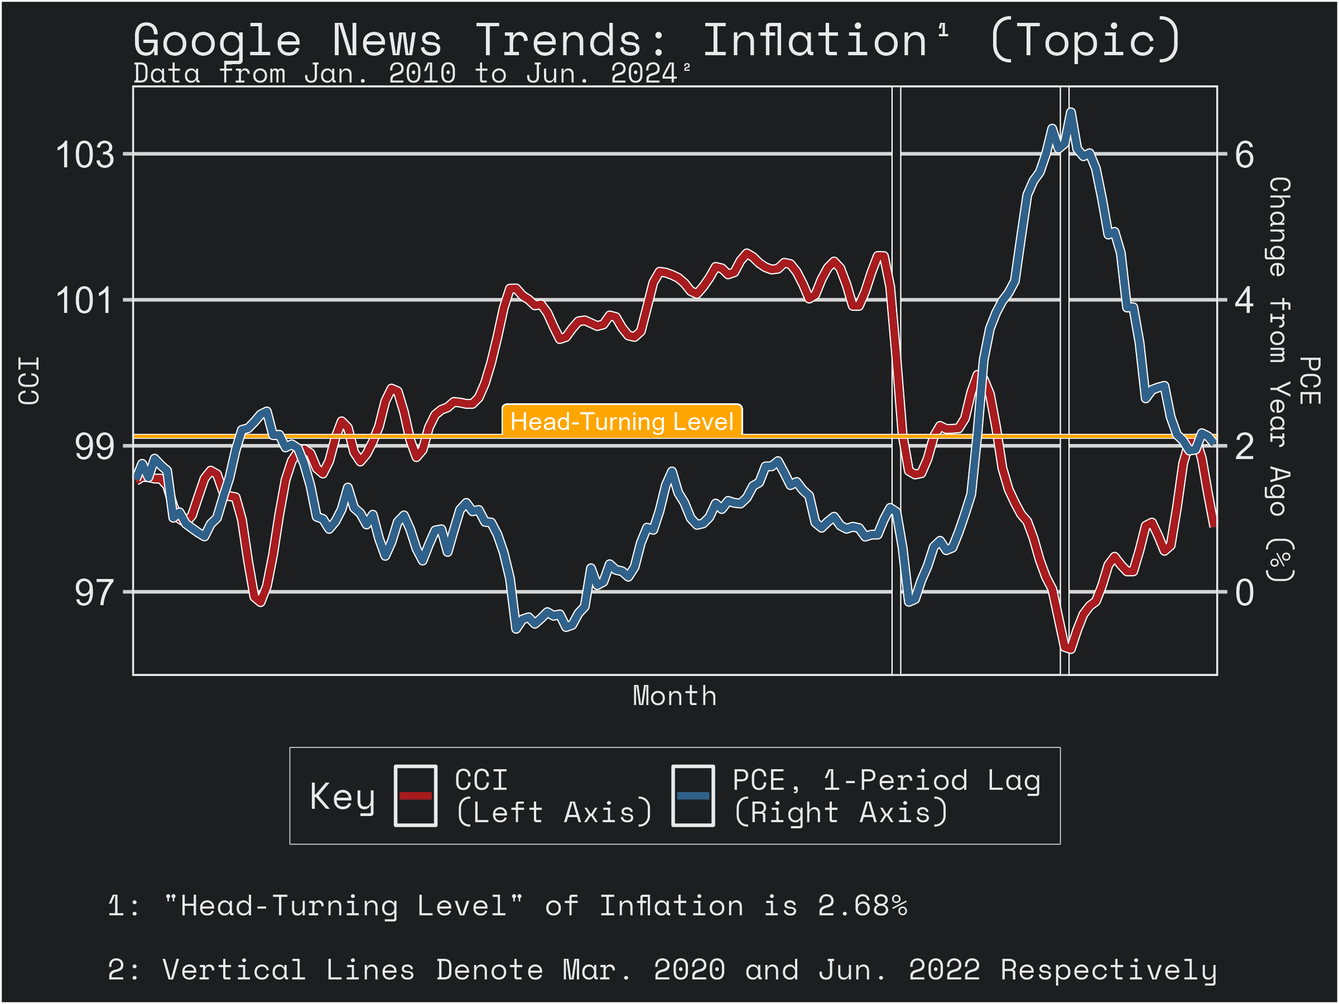
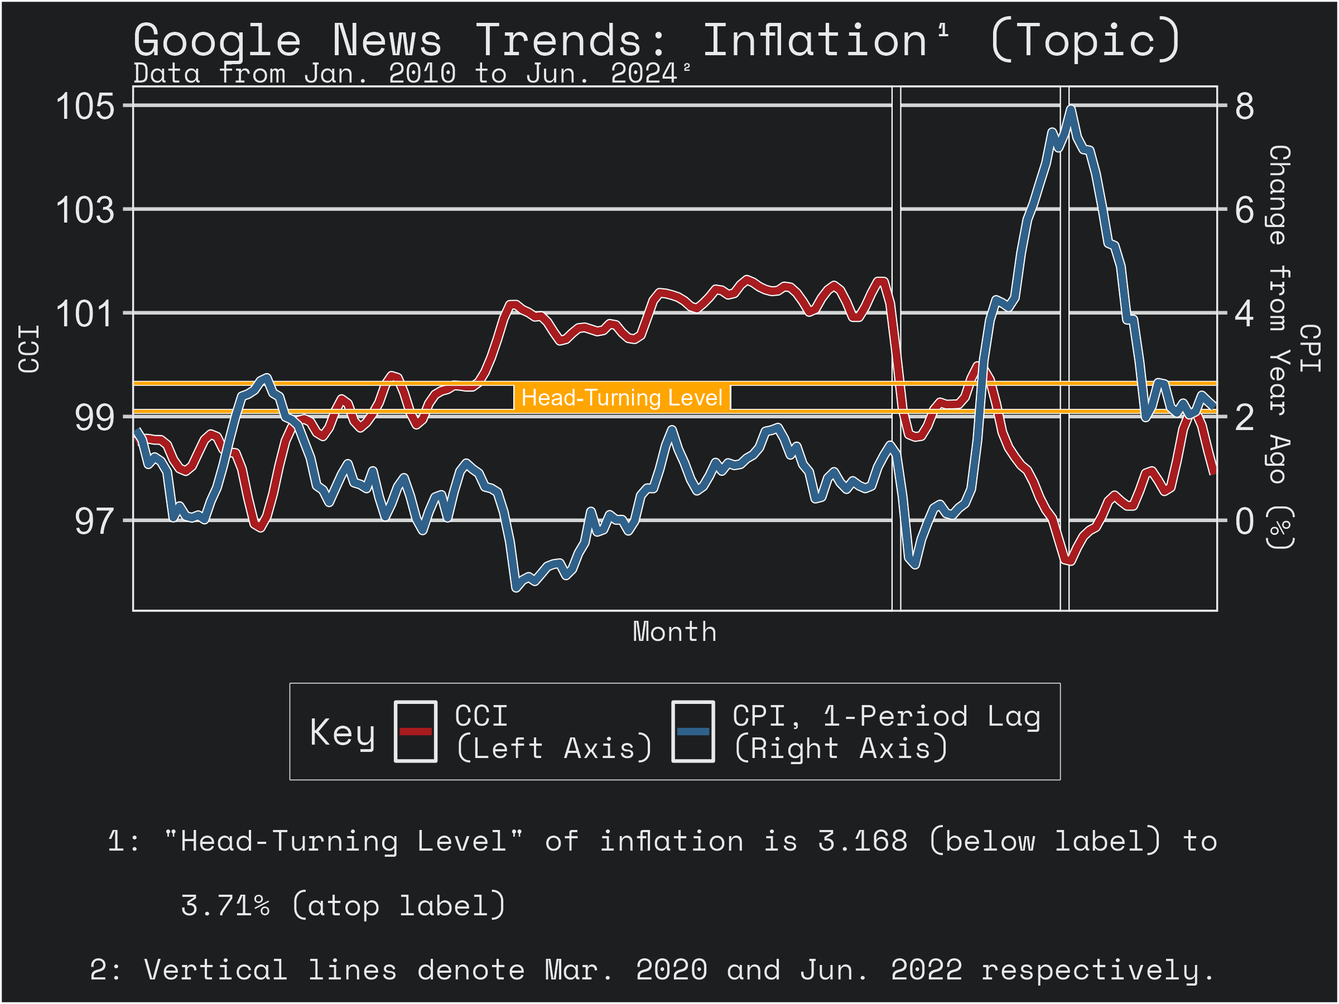
inflation measure
change pce to cpi

diff --git a/stuff/posts/TheVibes2022.html b/stuff/posts/TheVibes2022.html
@@ -91,35 +91,6 @@ div.csl-indent {
   }
 }</script>
 
-  <script src="https://polyfill.io/v3/polyfill.min.js?features=es6"></script>
-  <script src="https://cdn.jsdelivr.net/npm/mathjax@3/es5/tex-chtml-full.js" type="text/javascript"></script>
-
-<script type="text/javascript">
-const typesetMath = (el) => {
-  if (window.MathJax) {
-    // MathJax Typeset
-    window.MathJax.typeset([el]);
-  } else if (window.katex) {
-    // KaTeX Render
-    var mathElements = el.getElementsByClassName("math");
-    var macros = [];
-    for (var i = 0; i < mathElements.length; i++) {
-      var texText = mathElements[i].firstChild;
-      if (mathElements[i].tagName == "SPAN") {
-        window.katex.render(texText.data, mathElements[i], {
-          displayMode: mathElements[i].classList.contains('display'),
-          throwOnError: false,
-          macros: macros,
-          fleqn: false
-        });
-      }
-    }
-  }
-}
-window.Quarto = {
-  typesetMath
-};
-</script>
 
 <link rel="stylesheet" href="../../fonts.css">
 </head>
@@ -267,7 +238,7 @@ window.Quarto = {
 <div id="fig-dipzone" class="quarto-figure quarto-figure-center quarto-float anchored">
 <figure class="quarto-float quarto-float-fig figure">
 <div aria-describedby="fig-dipzone-caption-0ceaefa1-69ba-4598-a22c-09a6ac19f8ca">
-<a href="https://iop.harvard.edu/youth-poll/46th-edition-fall-2023"><span class="lightbox" data-gallery="quarto-lightbox-gallery-1" data-glightbox="description: .lightbox-desc-1"><img src="TheVibes2022/survey.png" class="img-fluid figure-img"></span></a>
+<a href="https://iop.harvard.edu/youth-poll/46th-edition-fall-2023"><span class="lightbox" data-glightbox="description: .lightbox-desc-1" data-gallery="quarto-lightbox-gallery-1"><img src="TheVibes2022/survey.png" class="img-fluid figure-img"></span></a>
 </div>
 <figcaption class="quarto-float-caption-bottom quarto-float-caption quarto-float-fig" id="fig-dipzone-caption-0ceaefa1-69ba-4598-a22c-09a6ac19f8ca">
 Figure&nbsp;1: Harvard IOP Youth Poll; Fall 2023
@@ -281,9 +252,9 @@ Figure&nbsp;1: Harvard IOP Youth Poll; Fall 2023
 </section>
 <section id="measuring-sentiments" class="level1" data-number="2">
 <h1 data-number="2"><span class="header-section-number">2</span> Measuring Sentiments</h1>
-<p>To see how sentiment has changed compared to economic conditions, we need a measure of sentiment and a common economic indicator to compare. To keep things simple, I use personal consumption expenditure <span class="citation" data-cites="PCE">(<a href="#ref-PCE" role="doc-biblioref"><span>“Personal Consumption Expenditures: Chain-Type Price Index (PCEPI)”</span> 2024</a>)</span> inflation as the indicator of reference and the consumer confidence index <span class="citation" data-cites="CCI">(<a href="#ref-CCI" role="doc-biblioref"><strong>CCI?</strong></a>)</span> to measure sentiment. I chose inflation because it is a metric that makes headlines, and which has some correlation with the sentiment metric when plotted. Don’t worry about stationarity econometricians, this is not about the number of inflation, it’s about the number of it that turns heads. I’ve elected to employ a one-month lag of inflation in comparing it to consumer sentiment since it would be the preceding month’s inflation that is known in the month of each consumer confidence survey. The time period of both datasets is January 2010 to June 2024<a href="#fn2" class="footnote-ref" id="fnref2" role="doc-noteref"><sup>2</sup></a>. Before proceeding, only one more thing is necessary.<br>
+<p>To see how sentiment has changed compared to economic conditions, we need a measure of sentiment and a common economic indicator to compare. To keep things simple, I use consumer price index <span class="citation" data-cites="CPI">(<a href="#ref-CPI" role="doc-biblioref"><strong>CPI?</strong></a>)</span> inflation as the indicator of reference (PCE is better but CPI is what most mass media uses) and the consumer confidence index <span class="citation" data-cites="CCI">(<a href="#ref-CCI" role="doc-biblioref"><strong>CCI?</strong></a>)</span> to measure sentiment. I chose inflation because it is a metric that makes headlines, and which has some correlation with the sentiment metric when plotted. Don’t worry about stationarity econometricians, this is not about the number of inflation, it’s about the number of it that turns heads. I’ve elected to employ a one-month lag of inflation in comparing it to consumer sentiment since it would be the preceding month’s inflation that is known in the month of each consumer confidence survey. The time period of both datasets is January 2010 to June 2024<a href="#fn2" class="footnote-ref" id="fnref2" role="doc-noteref"><sup>2</sup></a>. Before proceeding, only one more thing is necessary.<br>
 <br>
-Although we are using PCE inflation data in this comparison, as mentioned in the above paragraph, we are looking for what makes headlines. This is to say that when inflation is on target, it is unlikely that it is a considerable factor in terms of consumer sentiment. Who was talking about inflation in December of the year 2020? In addition to simply grabbing inflation data, it is necessary to create a benchmark for the <em>kind of inflation</em> that makes headlines. To do this without going through the pain of actually aggregating news articles manually, I use Google Trends with the query “Inflation (Topic)” specifically concerning Google News searches <span class="citation" data-cites="google">(<a href="#ref-google" role="doc-biblioref"><span>“Inflation (Topic)”</span> 2024</a>)</span> over the same time frame as the CCI and PCE data. The results below illustrate Google News search interest in inflation over time:</p>
+Although we are using CPI inflation data in this comparison, as mentioned in the above paragraph, we are looking for what makes headlines. This is to say that when inflation is on target, it is unlikely that it is a considerable factor in terms of consumer sentiment. Who was talking about inflation in December of the year 2020? In addition to simply grabbing inflation data, it is necessary to create a benchmark for the <em>kind of inflation</em> that makes headlines. To do this without going through the pain of actually aggregating news articles manually, I use Google Trends with the query “Inflation (Topic)” specifically concerning Google News searches <span class="citation" data-cites="google">(<a href="#ref-google" role="doc-biblioref"><span>“Inflation (Topic)”</span> 2024</a>)</span> over the same time frame as the CCI and CPI data. The results below illustrate Google News search interest in inflation over time:</p>
 <div class="callout callout-style-simple callout-note no-icon" style="border-width: 5px;">
 <div class="callout-body d-flex">
 <div class="callout-icon-container">
@@ -299,7 +270,7 @@ Although we are using PCE inflation data in this comparison, as mentioned in the
 <div id="fig-trends" class="quarto-figure quarto-figure-center quarto-float anchored">
 <figure class="quarto-float quarto-float-fig figure">
 <div aria-describedby="fig-trends-caption-0ceaefa1-69ba-4598-a22c-09a6ac19f8ca">
-<a href="TheVibes2022/figures/trends_plot.png" class="lightbox" data-gallery="quarto-lightbox-gallery-2" data-glightbox="description: .lightbox-desc-2"><img src="TheVibes2022/figures/trends_plot.png" class="img-fluid figure-img"></a>
+<a href="TheVibes2022/figures/trends_plot.png" class="lightbox" data-glightbox="description: .lightbox-desc-2" data-gallery="quarto-lightbox-gallery-2"><img src="TheVibes2022/figures/trends_plot.png" class="img-fluid figure-img"></a>
 </div>
 <figcaption class="quarto-float-caption-bottom quarto-float-caption quarto-float-fig" id="fig-trends-caption-0ceaefa1-69ba-4598-a22c-09a6ac19f8ca">
 Figure&nbsp;2: Google News Trends: Inflation (Topic),<br>
@@ -334,7 +305,7 @@ Data from Jan.&nbsp;2010 to Jun.&nbsp;2024, Vertical Lines Denote Mar.&nbsp;2020
 <div id="fig-trends2020" class="quarto-figure quarto-figure-center quarto-float anchored">
 <figure class="quarto-float quarto-float-fig figure">
 <div aria-describedby="fig-trends2020-caption-0ceaefa1-69ba-4598-a22c-09a6ac19f8ca">
-<a href="TheVibes2022/figures/trends_plot_2020.png" class="lightbox" data-gallery="quarto-lightbox-gallery-3" data-glightbox="description: .lightbox-desc-3"><img src="TheVibes2022/figures/trends_plot_2020.png" class="img-fluid figure-img"></a>
+<a href="TheVibes2022/figures/trends_plot_2020.png" class="lightbox" data-glightbox="description: .lightbox-desc-3" data-gallery="quarto-lightbox-gallery-3"><img src="TheVibes2022/figures/trends_plot_2020.png" class="img-fluid figure-img"></a>
 </div>
 <figcaption class="quarto-float-caption-bottom quarto-float-caption quarto-float-fig" id="fig-trends2020-caption-0ceaefa1-69ba-4598-a22c-09a6ac19f8ca">
 Figure&nbsp;3: Google News Trends: Inflation (Topic),<br>
@@ -353,7 +324,7 @@ Data from Jan.&nbsp;2010 to Jan.&nbsp;2020
 </div>
 </div>
 </div>
-<p>What we want is to find a baseline level of inflation that correlates to “disinterest” during the period of stability. In other words, we want to find a general level for the interest trend in inflation as a topic, and see whereabouts inflation tends to be at that level. This level is not entirely representative of what constitutes inflation that makes headlines (for example, periods of particularly low inflation may do the same), but it makes it easier to make an interpretable graph so bear with me. As seen in the collapsed block below, the mean and median levels of interest across the period of interest are <span class="math inline">\(13.55\)</span> and <span class="math inline">\(6\)</span> respectively.</p>
+<p>What we want is to find a baseline level of inflation that correlates to “disinterest” during the period of stability. In other words, we want to find a general level for the interest trend in inflation as a topic, and see whereabouts inflation tends to be at that level. This level is not entirely representative of what constitutes inflation that makes headlines (for example, periods of particularly low inflation may do the same), but it makes it easier to make an interpretable graph so bear with me. As seen in the collapsed block below, the mean and median levels of interest across the period of interest are 13.55 and 6 respectively.</p>
 <div class="callout callout-style-default callout-note no-icon callout-titled">
 <div class="callout-header d-flex align-content-center" data-bs-toggle="collapse" data-bs-target=".callout-1-contents" aria-controls="callout-1" aria-expanded="false" aria-label="Toggle callout">
 <div class="callout-icon-container">
@@ -390,18 +361,18 @@ Google Trends Averages: Inflation
 <div class="callout-body-container callout-body">
 <div class="cell">
 <div class="cell-output cell-output-stdout">
-<pre><code>   Min. 1st Qu.  Median    Mean 3rd Qu.    Max. 
- 0.1993  1.8651  2.6774  3.1673  4.4443  7.1169 </code></pre>
+<pre><code>    Min.  1st Qu.   Median     Mean  3rd Qu.     Max. 
+-0.02203  2.13811  3.16574  3.70907  5.05818  8.98974 </code></pre>
 </div>
 <div class="cell-output cell-output-stdout">
 <pre><code>   Min. 1st Qu.  Median    Mean 3rd Qu.    Max. 
-  96.65   98.32   99.13   99.62  100.90  103.57 </code></pre>
+  95.91   98.07   99.10   99.64  100.99  104.92 </code></pre>
 </div>
 </div>
 </div>
 </div>
 </div>
-<p>Inflation generally starts to turn heads when it hits about 2.68 to 3.17%. That sounds reasonable to my hind brain so we will continue, and I elect to continue with the median (the former value) again just to be safe given how varied these inflation figures can get.</p>
+<p>Inflation generally starts to turn heads when it hits about 3.168 to 3.71%. That sounds reasonable to my hind brain so we will continue. I elect to include both possible limits for the visual in the next section.</p>
 </section>
 <section id="inflation-and-consumer-confidence" class="level1" data-number="3">
 <h1 data-number="3"><span class="header-section-number">3</span> Inflation and Consumer Confidence</h1>
@@ -421,7 +392,7 @@ Google Trends Averages: Inflation
 <div id="fig-cci-all" class="quarto-figure quarto-figure-center quarto-float anchored">
 <figure class="quarto-float quarto-float-fig figure">
 <div aria-describedby="fig-cci-all-caption-0ceaefa1-69ba-4598-a22c-09a6ac19f8ca">
-<a href="TheVibes2022/figures/cc_plain_all.png" class="lightbox" data-gallery="quarto-lightbox-gallery-4" data-glightbox="description: .lightbox-desc-4"><img src="TheVibes2022/figures/cc_plain_all.png" class="img-fluid figure-img"></a>
+<a href="TheVibes2022/figures/cc_plain_all.png" class="lightbox" data-glightbox="description: .lightbox-desc-4" data-gallery="quarto-lightbox-gallery-4"><img src="TheVibes2022/figures/cc_plain_all.png" class="img-fluid figure-img"></a>
 </div>
 <figcaption class="quarto-float-caption-bottom quarto-float-caption quarto-float-fig" id="fig-cci-all-caption-0ceaefa1-69ba-4598-a22c-09a6ac19f8ca">
 Figure&nbsp;4: Inflation v. Consumer Confidence Index,<br>
@@ -440,14 +411,14 @@ Data from Jan.&nbsp;2010 to Jun.&nbsp;2024, Vertical Lines Denote Mar.&nbsp;2020
 </div>
 </div>
 </div>
-<p>As seen above in <a href="#fig-cci-all" class="quarto-xref">Figure&nbsp;4</a>, it is generally true that higher inflation in one month is reflected by a lower CCI in the next<a href="#fn4" class="footnote-ref" id="fnref4" role="doc-noteref"><sup>4</sup></a>, particularly during periods that exceeds the head-turning level. Running a simple test for correlation (in the collapsed block below) we get coefficients of about -0.665 or -0.703 that are statistically significant when including all PCE values or only those where the level of interest in inflation was above the median of 6 (the head-turning level roughly associated with an inflation rate of about 2.68%) respectively. In the years since 2010, we see that low inflation generally resulted in higher consumer confidence and vice versa, and we additionally see that when controlling to focus on inflation during periods where interest of it is higher (which is associated with the “head-turning number” at the higher end of inflation), that relationship is more pronounced.</p>
+<p>As seen above in <a href="#fig-cci-all" class="quarto-xref">Figure&nbsp;4</a>, it is generally true that higher inflation in one month is reflected by a lower CCI in the next<a href="#fn4" class="footnote-ref" id="fnref4" role="doc-noteref"><sup>4</sup></a>, particularly during periods that exceeds the head-turning level. Running a simple test for correlation (in the collapsed block below) we get coefficients of about -0.630 or -0.699 that are statistically significant when including all CPI values or only those where the level of interest in inflation was above the median of 6 (the head-turning level roughly associated with an inflation rate of about 2.68%) respectively. In the years since 2010, we see that low inflation generally resulted in higher consumer confidence and vice versa, and we additionally see that when controlling to focus on inflation during periods where interest of it is higher (which is associated with the “head-turning number” at the higher end of inflation), that relationship is more pronounced.</p>
 <div class="callout callout-style-default callout-note no-icon callout-titled">
 <div class="callout-header d-flex align-content-center" data-bs-toggle="collapse" data-bs-target=".callout-3-contents" aria-controls="callout-3" aria-expanded="false" aria-label="Toggle callout">
 <div class="callout-icon-container">
 <i class="callout-icon no-icon"></i>
 </div>
 <div class="callout-title-container flex-fill">
-Correlation Test: PCE v. CCI
+Correlation Test: CPI v. CCI
 </div>
 <div class="callout-btn-toggle d-inline-block border-0 py-1 ps-1 pe-0 float-end"><i class="callout-toggle"></i></div>
 </div>
@@ -458,27 +429,27 @@ Correlation Test: PCE v. CCI
 <pre><code>
     Pearson's product-moment correlation
 
-data:  consumer_confidence$PCE_lag and consumer_confidence$CCI
-t = -11.679, df = 172, p-value &lt; 2.2e-16
+data:  consumer_confidence$CPI_lag and consumer_confidence$CCI
+t = -10.649, df = 172, p-value &lt; 2.2e-16
 alternative hypothesis: true correlation is not equal to 0
 95 percent confidence interval:
- -0.7405351 -0.5729469
+ -0.7123095 -0.5313987
 sample estimates:
        cor 
--0.6650313 </code></pre>
+-0.6303366 </code></pre>
 </div>
 <div class="cell-output cell-output-stdout">
 <pre><code>
     Pearson's product-moment correlation
 
-data:  consumer_confidence_above_avg_interest$PCE_lag and consumer_confidence_above_avg_interest$CCI
-t = -8.8981, df = 81, p-value = 1.264e-13
+data:  consumer_confidence_above_avg_interest$CPI_lag and consumer_confidence_above_avg_interest$CCI
+t = -8.8062, df = 81, p-value = 1.92e-13
 alternative hypothesis: true correlation is not equal to 0
 95 percent confidence interval:
- -0.7977786 -0.5744978
+ -0.7951171 -0.5696011
 sample estimates:
        cor 
--0.7030678 </code></pre>
+-0.6993682 </code></pre>
 </div>
 </div>
 </div>
@@ -495,7 +466,7 @@ sample estimates:
 <i class="callout-icon no-icon"></i>
 </div>
 <div class="callout-title-container flex-fill">
-Correlation Test: PCE v. CCI Pre-Pandemic
+Correlation Test: CPI v. CCI Pre-Pandemic
 </div>
 <div class="callout-btn-toggle d-inline-block border-0 py-1 ps-1 pe-0 float-end"><i class="callout-toggle"></i></div>
 </div>
@@ -506,40 +477,40 @@ Correlation Test: PCE v. CCI Pre-Pandemic
 <pre><code>
     Pearson's product-moment correlation
 
-data:  consumer_confidence_pre$PCE_lag and consumer_confidence_pre$CCI
-t = -4.9755, df = 121, p-value = 2.177e-06
+data:  consumer_confidence_pre$CPI_lag and consumer_confidence_pre$CCI
+t = -3.425, df = 121, p-value = 0.0008401
 alternative hypothesis: true correlation is not equal to 0
 95 percent confidence interval:
- -0.5490941 -0.2535888
+ -0.4506056 -0.1269328
 sample estimates:
        cor 
--0.4121214 </code></pre>
+-0.2972866 </code></pre>
 </div>
 <div class="cell-output cell-output-stdout">
 <pre><code>
     Pearson's product-moment correlation
 
-data:  consumer_confidence_above_avg_interest_pre$PCE_lag and consumer_confidence_above_avg_interest_pre$CCI
-t = -4.9403, df = 37, p-value = 1.696e-05
+data:  consumer_confidence_above_avg_interest_pre$CPI_lag and consumer_confidence_above_avg_interest_pre$CCI
+t = -4.2829, df = 37, p-value = 0.0001258
 alternative hypothesis: true correlation is not equal to 0
 95 percent confidence interval:
- -0.7890117 -0.3931213
+ -0.7542238 -0.3179446
 sample estimates:
        cor 
--0.6304407 </code></pre>
+-0.5757083 </code></pre>
 </div>
 </div>
 </div>
 </div>
 </div>
-<p>The relationship of inflation and CCI noted from <a href="#fig-cci-all" class="quarto-xref">Figure&nbsp;4</a> is still present, but notably much-reduced. We get coefficients of about -0.412 or -0.630 that are statistically significant when including all PCE values or only those where the level of interest in inflation was above the median respectively. These are drastically lower than the original coefficients in both cases, implying that the pandemic (and recovery) period will have a much higher associated coefficient. Below is the same test but with values spanning only March 2020 to June 2024.</p>
+<p>The relationship of inflation and CCI noted from <a href="#fig-cci-all" class="quarto-xref">Figure&nbsp;4</a> is still present, but notably much-reduced. We get coefficients of about -0.297 or -0.576 that are statistically significant when including all CPI values or only those where the level of interest in inflation was above the median respectively. These are drastically lower than the original coefficients in both cases, implying that the pandemic (and recovery) period will have a much higher associated coefficient. Below is the same test but with values spanning only March 2020 to June 2024.</p>
 <div class="callout callout-style-default callout-note no-icon callout-titled">
 <div class="callout-header d-flex align-content-center" data-bs-toggle="collapse" data-bs-target=".callout-5-contents" aria-controls="callout-5" aria-expanded="false" aria-label="Toggle callout">
 <div class="callout-icon-container">
 <i class="callout-icon no-icon"></i>
 </div>
 <div class="callout-title-container flex-fill">
-Correlation Test: PCE v. CCI Post-Pandemic
+Correlation Test: CPI v. CCI Post-Pandemic
 </div>
 <div class="callout-btn-toggle d-inline-block border-0 py-1 ps-1 pe-0 float-end"><i class="callout-toggle"></i></div>
 </div>
@@ -550,33 +521,33 @@ Correlation Test: PCE v. CCI Post-Pandemic
 <pre><code>
     Pearson's product-moment correlation
 
-data:  consumer_confidence_post$PCE_lag and consumer_confidence_post$CCI
-t = -8.5349, df = 50, p-value = 2.504e-11
+data:  consumer_confidence_post$CPI_lag and consumer_confidence_post$CCI
+t = -8.6315, df = 50, p-value = 1.783e-11
 alternative hypothesis: true correlation is not equal to 0
 95 percent confidence interval:
- -0.8618389 -0.6294231
+ -0.8640574 -0.6346413
 sample estimates:
        cor 
--0.7700518 </code></pre>
+-0.7735649 </code></pre>
 </div>
 <div class="cell-output cell-output-stdout">
 <pre><code>
     Pearson's product-moment correlation
 
-data:  consumer_confidence_above_avg_interest_post$PCE_lag and consumer_confidence_above_avg_interest_post$CCI
-t = -7.6059, df = 42, p-value = 2.001e-09
+data:  consumer_confidence_above_avg_interest_post$CPI_lag and consumer_confidence_above_avg_interest_post$CCI
+t = -7.8226, df = 42, p-value = 9.915e-10
 alternative hypothesis: true correlation is not equal to 0
 95 percent confidence interval:
- -0.8630223 -0.5998282
+ -0.8684093 -0.6134182
 sample estimates:
        cor 
--0.7611628 </code></pre>
+-0.7700613 </code></pre>
 </div>
 </div>
 </div>
 </div>
 </div>
-<p>The relationship of inflation and CCI noted from <a href="#fig-cci-all" class="quarto-xref">Figure&nbsp;4</a> is still present, but is much higher. We get coefficients of about -0.770 or -0.761 that are statistically significant when including all PCE values or only those where the level of interest in inflation was above the median respectively. Interestingly, the coefficient is greater in magnitude in the latter case than the former, which is a reversal of what we saw in the prior two series of tests. Although almost all periods during the pandemic era had a level of interest above the median, this implies that even in cases where interest was not that high, inflation and consumer confidence were quite high and low respectively. This further illustrates the souring of the vibe during the pandemic and—given that those periods are found in 2020—probably reflect concerns about a recession<a href="#fn6" class="footnote-ref" id="fnref6" role="doc-noteref"><sup>6</sup></a> in those instances rather than inflation. The drop in CCI was much more pronounced across the 2022 inflationary wave than other waves in earlier years.</p>
+<p>The relationship of inflation and CCI noted from <a href="#fig-cci-all" class="quarto-xref">Figure&nbsp;4</a> is still present, but is much higher. We get coefficients of about -0.774 or -0.770 that are statistically significant when including all CPI values or only those where the level of interest in inflation was above the median respectively. Interestingly, the coefficient is greater in magnitude in the latter case than the former, which is a reversal of what we saw in the prior two series of tests. Although almost all periods during the pandemic era had a level of interest above the median, this implies that even in cases where interest was not that high, inflation and consumer confidence were quite high and low respectively. This further illustrates the souring of the vibe during the pandemic and—given that those periods are found in 2020—probably reflect concerns about a recession<a href="#fn6" class="footnote-ref" id="fnref6" role="doc-noteref"><sup>6</sup></a> in those instances rather than inflation. The drop in CCI was much more pronounced across the 2022 inflationary wave than other waves in earlier years.</p>
 </section>
 <section id="conclusion" class="level1" data-number="5">
 <h1 data-number="5"><span class="header-section-number">5</span> Conclusion</h1>
@@ -593,9 +564,6 @@ Algaba, Andres, David Ardia, Keven Bluteau, Samuel Borms, and Kris Boudt. 2020. 
 </div>
 <div id="ref-google" class="csl-entry" role="listitem">
 <span>“Inflation (Topic).”</span> 2024. <em>Google Trends</em>. <a href="https://trends.google.com/trends/explore?date=2010-01-01%202024-06-01&amp;geo=US&amp;gprop=news&amp;q=%2Fm%2F09jx2&amp;hl=en">https://trends.google.com/trends/explore?date=2010-01-01%202024-06-01&amp;geo=US&amp;gprop=news&amp;q=%2Fm%2F09jx2&amp;hl=en</a>.
-</div>
-<div id="ref-PCE" class="csl-entry" role="listitem">
-<span>“Personal Consumption Expenditures: Chain-Type Price Index (PCEPI).”</span> 2024. <em>U.S. Bureau of Economic Analysis</em>. <a href="https://www.oecd.org/en/data/indicators/consumer-confidence-index-cci.html">https://www.oecd.org/en/data/indicators/consumer-confidence-index-cci.html</a>.
 </div>
 <div id="ref-vibes" class="csl-entry" role="listitem">
 Scanlon, Kyla. 2022. <span>“The Vibecession: The Self-Fulfilling Prophecy.”</span> <em>Kyla’s Newsletter</em>. <a href="https://kyla.substack.com/p/the-vibecession-the-self-fulfilling">https://kyla.substack.com/p/the-vibecession-the-self-fulfilling</a>.
@@ -1036,7 +1004,7 @@ window.document.addEventListener("DOMContentLoaded", function (event) {
 });
 </script>
 </div> <!-- /content -->
-<script>var lightboxQuarto = GLightbox({"openEffect":"zoom","selector":".lightbox","closeEffect":"zoom","loop":false,"descPosition":"bottom"});
+<script>var lightboxQuarto = GLightbox({"descPosition":"bottom","closeEffect":"zoom","openEffect":"zoom","loop":false,"selector":".lightbox"});
 window.onload = () => {
   lightboxQuarto.on('slide_before_load', (data) => {
     const { slideIndex, slideNode, slideConfig, player, trigger } = data;
